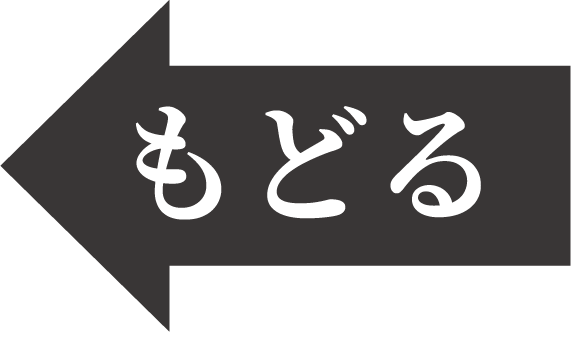
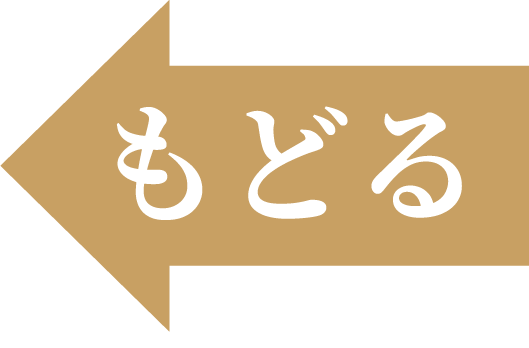
a

diff --git a/src/App.tsx b/src/App.tsx
@@ -1750,6 +1750,7 @@ function SceneThree({
         <div className="suspect-list">
           {photos.map((photo) => {
             const isSelected = selectedPhotoId === photo.id
+            const [roleLabel, castLabel] = photo.label.split('\n')
 
             return (
               <button
@@ -1774,7 +1775,10 @@ function SceneThree({
                     />
                   )}
                 </span>
-                <span className="suspect-label">{photo.label}</span>
+                <span className="suspect-label">
+                  <span className="suspect-role-label">{roleLabel}</span>
+                  {castLabel && <span className="suspect-cast-label">{castLabel}</span>}
+                </span>
               </button>
             )
           })}

diff --git a/src/App.css b/src/App.css
@@ -1271,18 +1271,26 @@ button:focus-visible {
   display: grid;
   width: 442px;
   min-height: 86px;
+  gap: 3px;
   place-items: start center;
-  color: #8a1b12;
   font-size: 34px;
   font-weight: 900;
   line-height: 1.03;
   overflow: visible;
-  white-space: pre;
+  white-space: normal;
   word-break: normal;
   letter-spacing: 0.01em;
   text-shadow:
     0 1px 0 rgba(255, 246, 207, 0.9),
     0 0 5px rgba(255, 235, 170, 0.52);
+}
+
+.suspect-role-label {
+  color: #d54397;
+}
+
+.suspect-cast-label {
+  color: #8a1b12;
 }
 
 .suspect-frame {
